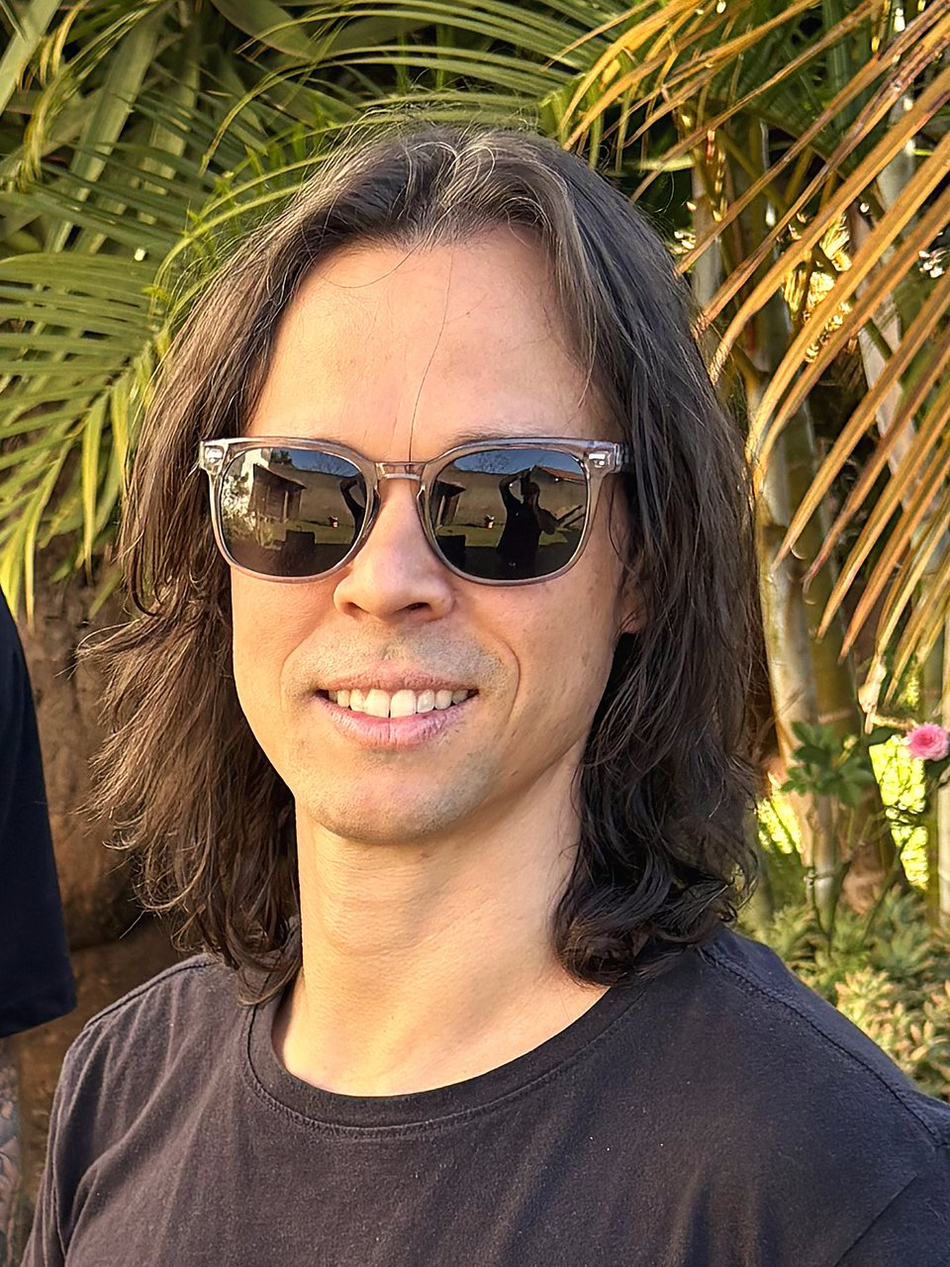
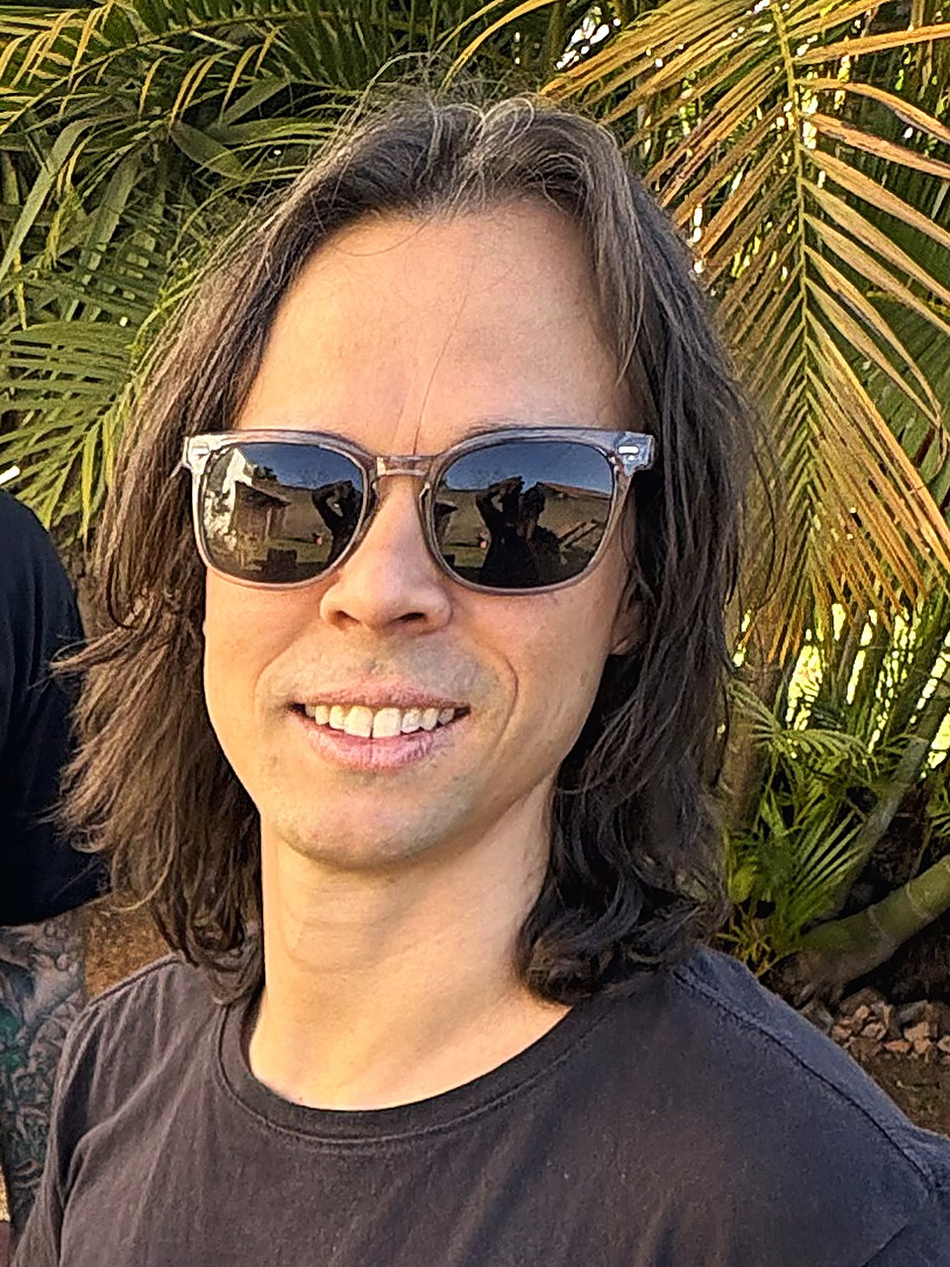
Photo and line-up refinements: drummer credited as Alisson, IMG_1814 after the opening video, portraits re-cut from IMG_1813, Photos section replaced by a riso print of the fence photo, Booking is now 05

diff --git a/index.html b/index.html
@@ -24,8 +24,8 @@
 <link rel="preconnect" href="https://fonts.googleapis.com">
 <link rel="preconnect" href="https://fonts.gstatic.com" crossorigin>
 <link href="https://fonts.googleapis.com/css2?family=Bricolage+Grotesque:opsz,wdth,wght@12..96,75..100,400..800&family=IBM+Plex+Mono:wght@400;500&display=swap" rel="stylesheet">
-<link rel="stylesheet" href="assets/css/site.css?v=7268f69c">
-<script type="application/ld+json">{"@context":"https://schema.org","@type":"MusicGroup","@id":"https://rafaelzeredo.github.io/gigz/#band","name":"GigZ","url":"https://rafaelzeredo.github.io/gigz/","image":"https://rafaelzeredo.github.io/gigz/assets/img/og/og.jpg","logo":"https://rafaelzeredo.github.io/gigz/assets/brand/icon-512.png","foundingDate":"2026","foundingLocation":{"@type":"Place","name":"Brasília, Distrito Federal, Brasil"},"genre":["Rock","Reggae","Blues","Soul"],"description":"Power trio de Brasília formado em 2026: voz e violão, baixo e bateria.","member":[{"@type":"OrganizationRole","roleName":"Voz e violão","member":{"@type":"Person","name":"Rafael Z","url":"https://rafaelzeredo.github.io/","@id":"https://rafaelzeredo.github.io/#rafael-z"}},{"@type":"OrganizationRole","roleName":"Bateria","member":{"@type":"Person","name":"Alisson (Alvinho)"}},{"@type":"OrganizationRole","roleName":"Baixo","member":{"@type":"Person","name":"João Paulo"}}],"contactPoint":{"@type":"ContactPoint","contactType":"booking","telephone":"+55-61-98416-7777","email":"gig.z.contato@gmail.com","areaServed":"BR","availableLanguage":["pt-BR","en"]}}</script>
+<link rel="stylesheet" href="assets/css/site.css?v=0eec98a2">
+<script type="application/ld+json">{"@context":"https://schema.org","@type":"MusicGroup","@id":"https://rafaelzeredo.github.io/gigz/#band","name":"GigZ","url":"https://rafaelzeredo.github.io/gigz/","image":"https://rafaelzeredo.github.io/gigz/assets/img/og/og.jpg","logo":"https://rafaelzeredo.github.io/gigz/assets/brand/icon-512.png","foundingDate":"2026","foundingLocation":{"@type":"Place","name":"Brasília, Distrito Federal, Brasil"},"genre":["Rock","Reggae","Blues","Soul"],"description":"Power trio de Brasília formado em 2026: voz e violão, baixo e bateria.","member":[{"@type":"OrganizationRole","roleName":"Voz e violão","member":{"@type":"Person","name":"Rafael Z","url":"https://rafaelzeredo.github.io/","@id":"https://rafaelzeredo.github.io/#rafael-z"}},{"@type":"OrganizationRole","roleName":"Bateria","member":{"@type":"Person","name":"Alisson"}},{"@type":"OrganizationRole","roleName":"Baixo","member":{"@type":"Person","name":"João Paulo"}}],"contactPoint":{"@type":"ContactPoint","contactType":"booking","telephone":"+55-61-98416-7777","email":"gig.z.contato@gmail.com","areaServed":"BR","availableLanguage":["pt-BR","en"]}}</script>
 </head>
 <body>
 <svg width="0" height="0" style="position:absolute" aria-hidden="true"><defs><symbol id="wm" viewBox="0 -705 1330 848"><g transform="scale(1 -1)" fill="currentColor"><path transform="translate(0 0)" d="M184 -12Q117 -12 81.0 32.5Q45 77 31.0 153.5Q17 230 17 326Q17 400 25.5 463.0Q34 526 56.5 573.0Q79 620 120.0 646.0Q161 672 226 672Q285 672 323.0 651.5Q361 631 380.5 595.0Q400 559 403.5 513.0Q407 467 397 417L252 401Q258 447 256.5 481.5Q255 516 246.0 536.0Q237 556 219 556Q199 556 189.0 530.5Q179 505 175.5 460.5Q172 416 172 357Q172 285 175.5 236.5Q179 188 186.0 159.5Q193 131 203.0 118.5Q213 106 226 106Q242 106 253.0 121.5Q264 137 270.0 165.0Q276 193 278 230H229V337H413V225V0H317L313 191H304Q307 139 299.5 92.5Q292 46 265.5 17.0Q239 -12 184 -12Z"/><path transform="translate(411 0)" d="M20 0V528H174V0ZM97 564Q54 564 30.0 582.0Q6 600 6 634Q6 668 30.0 686.5Q54 705 97 705Q141 705 164.5 686.5Q188 668 188 634Q188 600 164.5 582.0Q141 564 97 564Z"/><path transform="translate(587 0)" d="M175 -143Q117 -143 80.0 -130.5Q43 -118 25.0 -95.0Q7 -72 7 -40Q7 4 37.5 28.0Q68 52 118 56V64Q84 68 56.0 78.0Q28 88 28 117Q28 144 52.5 160.5Q77 177 122 183V192Q70 206 39.5 247.0Q9 288 9 348Q9 400 32.5 440.5Q56 481 100.0 504.5Q144 528 205 528H395V405L265 430V422Q322 409 349.0 382.5Q376 356 376 317Q376 282 356.0 247.5Q336 213 296.0 190.5Q256 168 197 168Q187 168 174.0 168.5Q161 169 151 173Q137 166 129.0 161.0Q121 156 121 151Q121 148 125.0 145.5Q129 143 136.5 142.0Q144 141 154 141H229Q253 141 283.5 139.0Q314 137 342.0 126.0Q370 115 388.5 90.5Q407 66 407 21Q407 -34 377.5 -70.5Q348 -107 296.0 -125.0Q244 -143 175 -143ZM181 -4Q216 -4 234.0 -0.5Q252 3 258.5 9.5Q265 16 265 25Q265 37 258.5 43.0Q252 49 241.5 52.0Q231 55 220.0 55.5Q209 56 201 56H161Q133 45 122.5 37.0Q112 29 112 20Q112 9 123.0 4.0Q134 -1 150.0 -2.5Q166 -4 181 -4ZM194 258Q211 258 219.0 279.0Q227 300 227 339Q227 377 219.5 400.5Q212 424 194 424Q177 424 169.5 401.5Q162 379 162 340Q162 314 165.0 295.5Q168 277 175.5 267.5Q183 258 194 258Z"/><path style="fill:var(--zc,#FF5A1F)" class="z" transform="translate(979 0)" d="M14 0V121L178 532V535H14V660H334V539L169 129V125H337V0Z"/></g></symbol></defs></svg>
@@ -37,7 +37,6 @@
     <a href="#formacao"><span data-pt>Formação</span><span data-en>Line-up</span></a>
     <a href="#ao-vivo"><span data-pt>Ao vivo</span><span data-en>Live</span></a>
     <a href="#videos"><span data-pt>Vídeos</span><span data-en>Videos</span></a>
-    <a href="#fotos"><span data-pt>Fotos</span><span data-en>Photos</span></a>
     <a href="#contratar"><span data-pt>Contratar</span><span data-en>Booking</span></a>
   </nav>
   <div class="tools">
@@ -53,8 +52,7 @@
     <a href="#formacao"><span><span data-pt>Formação</span><span data-en>Line-up</span></span><small>02</small></a>
     <a href="#ao-vivo"><span><span data-pt>Ao vivo</span><span data-en>Live</span></span><small>03</small></a>
     <a href="#videos"><span><span data-pt>Vídeos</span><span data-en>Videos</span></span><small>04</small></a>
-    <a href="#fotos"><span><span data-pt>Fotos</span><span data-en>Photos</span></span><small>05</small></a>
-    <a href="#contratar"><span><span data-pt>Contratar</span><span data-en>Booking</span></span><small>06</small></a>
+    <a href="#contratar"><span><span data-pt>Contratar</span><span data-en>Booking</span></span><small>05</small></a>
   </nav>
   <div class="foot">Power trio · Brasília · 2026</div>
 </div>
@@ -89,7 +87,7 @@
       <p class="rv"><span data-pt>O repertório passeia pelo rock, pelo reggae, pelo blues e pelo soul, de Sublime e Jimi Hendrix a Charlie Brown Jr. e Stevie Wonder.</span><span data-en>The set moves through rock, reggae, blues and soul, from Sublime and Jimi Hendrix to Charlie Brown Jr. and Stevie Wonder.</span></p>
       <div class="name rv"><b><span data-pt>O nome</span><span data-en>The name</span></b><span><span data-pt><i>Gig</i> é a palavra que os músicos usam para show. A GigZ é uma banda feita para eles, com um Z no fim.</span><span data-en>A <i>gig</i> is what musicians call a show. GigZ is a band made for them, with a Z at the end.</span></span></div>
     </div>
-    <figure class="rv"><span class="tape">07.07.2026</span><img src="assets/img/photos/img_1821.jpg" srcset="assets/img/photos/img_1821_s.jpg 900w, assets/img/photos/img_1821.jpg 1800w" sizes="(max-width:899px) 100vw, 46vw" width="1350" height="1800" loading="lazy" alt="GigZ: Rafael Z com o violão, o baterista e o baixista, num jardim, ao fim da tarde"></figure>
+    <figure class="rv"><span class="tape">07.07.2026</span><img src="assets/img/photos/img_1814.jpg" srcset="assets/img/photos/img_1814_s.jpg 900w, assets/img/photos/img_1814.jpg 1800w" sizes="(max-width:899px) 100vw, 46vw" width="1350" height="1800" loading="lazy" alt="GigZ no jardim, ao fim da tarde: Rafael Z com o violão, Alisson junto ao bumbo e João Paulo com o baixo"></figure>
   </div>
 </section>
 
@@ -107,8 +105,8 @@
       <p><span data-pt>Cantor e compositor de Brasília. Carreira solo e outros projetos em</span><span data-en>Singer and songwriter from Brasília. Solo work and other projects at</span> <a href="https://rafaelzeredo.github.io/" target="_blank" rel="noopener">rafaelzeredo.github.io</a>.</p>
     </article>
     <article class="m rv">
-      <div class="ph"><img src="assets/img/members/drums.jpg" width="960" height="1280" loading="lazy" alt="Retrato de Alisson (Alvinho), baterista da GigZ, de óculos escuros e barba"><span class="tape"><span data-pt>Bateria</span><span data-en>Drums</span></span></div>
-      <h3>Alisson <span style="font-weight:400">(Alvinho)</span></h3>
+      <div class="ph"><img src="assets/img/members/drums.jpg" width="960" height="1280" loading="lazy" alt="Retrato de Alisson, baterista da GigZ, de óculos escuros e barba"><span class="tape"><span data-pt>Bateria</span><span data-en>Drums</span></span></div>
+      <h3>Alisson</h3>
       <p><span data-pt>O pulso da banda: bumbo, caixa e pratos que seguram o groove do reggae ao blues.</span><span data-en>The band's pulse: kick, snare and cymbals holding the groove from reggae to blues.</span></p>
     </article>
     <article class="m rv">
@@ -156,20 +154,15 @@
   <div class="vgrid"><button class="vcard feature rv" data-video="assets/video/film_promo.mp4" data-poster="assets/video/film_promo.jpg" data-caption="GigZ · Garden Session 07.2026"><span class="thumb"><img src="assets/video/film_promo.jpg" alt="" loading="lazy"><span class="play"><svg viewBox="0 0 24 24" fill="currentColor" aria-hidden="true"><path d="M7 4.5v15l13-7.5z"/></svg></span><span class="dur">1:06</span></span><span class="meta"><span class="k" style="margin-bottom:14px"><span data-pt>Vídeo principal</span><span data-en>Main video</span></span><h3>Garden Session</h3><p><span data-pt>Um minuto da banda ao vivo: What I Got, Red House, Stand By Me e Ela Vai Voltar.</span><span data-en>One minute of the band live: What I Got, Red House, Stand By Me and Ela Vai Voltar.</span></p></span></button><button class="vcard rv" data-video="assets/video/film_what_i_got.mp4" data-poster="assets/video/film_what_i_got.jpg" data-caption="GigZ · What I Got (Sublime) · Garden Session 07.2026"><span class="thumb"><img src="assets/video/film_what_i_got.jpg" alt="" loading="lazy"><span class="play"><svg viewBox="0 0 24 24" fill="currentColor" aria-hidden="true"><path d="M7 4.5v15l13-7.5z"/></svg></span><span class="dur">2:01</span></span><h3>What I Got</h3><p>Sublime · <span data-pt>ao vivo</span><span data-en>live</span></p></button><button class="vcard rv" data-video="assets/video/film_isnt_she_lovely.mp4" data-poster="assets/video/film_isnt_she_lovely.jpg" data-caption="GigZ · Isn&#x27;t She Lovely (Stevie Wonder) · Garden Session 07.2026"><span class="thumb"><img src="assets/video/film_isnt_she_lovely.jpg" alt="" loading="lazy"><span class="play"><svg viewBox="0 0 24 24" fill="currentColor" aria-hidden="true"><path d="M7 4.5v15l13-7.5z"/></svg></span><span class="dur">0:45</span></span><h3>Isn&#x27;t She Lovely</h3><p>Stevie Wonder · <span data-pt>ao vivo</span><span data-en>live</span></p></button><button class="vcard rv" data-video="assets/video/film_red_house.mp4" data-poster="assets/video/film_red_house.jpg" data-caption="GigZ · Red House (Jimi Hendrix) · Garden Session 07.2026"><span class="thumb"><img src="assets/video/film_red_house.jpg" alt="" loading="lazy"><span class="play"><svg viewBox="0 0 24 24" fill="currentColor" aria-hidden="true"><path d="M7 4.5v15l13-7.5z"/></svg></span><span class="dur">2:25</span></span><h3>Red House</h3><p>Jimi Hendrix · <span data-pt>ao vivo</span><span data-en>live</span></p></button><button class="vcard rv" data-video="assets/video/film_stand_by_me.mp4" data-poster="assets/video/film_stand_by_me.jpg" data-caption="GigZ · Stand By Me (Ben E. King) · Garden Session 07.2026"><span class="thumb"><img src="assets/video/film_stand_by_me.jpg" alt="" loading="lazy"><span class="play"><svg viewBox="0 0 24 24" fill="currentColor" aria-hidden="true"><path d="M7 4.5v15l13-7.5z"/></svg></span><span class="dur">1:56</span></span><h3>Stand By Me</h3><p>Ben E. King · <span data-pt>ao vivo</span><span data-en>live</span></p></button><button class="vcard rv" data-video="assets/video/film_ela_vai_voltar.mp4" data-poster="assets/video/film_ela_vai_voltar.jpg" data-caption="GigZ · Ela Vai Voltar (Charlie Brown Jr.) · Garden Session 07.2026"><span class="thumb"><img src="assets/video/film_ela_vai_voltar.jpg" alt="" loading="lazy"><span class="play"><svg viewBox="0 0 24 24" fill="currentColor" aria-hidden="true"><path d="M7 4.5v15l13-7.5z"/></svg></span><span class="dur">1:24</span></span><h3>Ela Vai Voltar</h3><p>Charlie Brown Jr. · <span data-pt>ao vivo</span><span data-en>live</span></p></button><button class="vcard rv" data-video="assets/video/film_promo_916.mp4" data-poster="assets/video/film_promo_916.jpg" data-caption="GigZ · Garden Session · 9:16 (Reels · Stories) · Garden Session 07.2026"><span class="thumb tall"><img src="assets/video/film_promo_916.jpg" alt="" loading="lazy"><span class="play"><svg viewBox="0 0 24 24" fill="currentColor" aria-hidden="true"><path d="M7 4.5v15l13-7.5z"/></svg></span><span class="dur">1:06</span></span><h3>Garden Session · 9:16</h3><p><span data-pt>Corte vertical para redes sociais</span><span data-en>Vertical cut for social media</span></p></button><button class="vcard rv" data-video="assets/video/film_social_what_i_got_916.mp4" data-poster="assets/video/film_social_what_i_got_916.jpg" data-caption="GigZ · What I Got · 30 s (Reels · Stories) · Garden Session 07.2026"><span class="thumb tall"><img src="assets/video/film_social_what_i_got_916.jpg" alt="" loading="lazy"><span class="play"><svg viewBox="0 0 24 24" fill="currentColor" aria-hidden="true"><path d="M7 4.5v15l13-7.5z"/></svg></span><span class="dur">0:31</span></span><h3>What I Got · 30 s</h3><p><span data-pt>Corte vertical para redes sociais</span><span data-en>Vertical cut for social media</span></p></button></div>
 </section>
 
-<!-- 05 PHOTOS -->
-<section class="sec gallery" id="fotos">
-  <div class="head rv">
-    <div><div class="k"><b>05</b> <span data-pt>Fotos</span><span data-en>Photos</span></div>
-    <h2 class="h2"><span data-pt>Fim de<br><em>tarde.</em></span><span data-en>Late<br><em>afternoon.</em></span></h2></div>
-    <p class="lead"><span data-pt>Sessão de fotos da banda, 7 de julho de 2026. Toque para ampliar.</span><span data-en>Band photo session, 7 July 2026. Tap to enlarge.</span></p>
-  </div>
-  <div class="ggrid"><button class="g1 rv" data-full="assets/img/photos/img_1817.jpg"><img src="assets/img/photos/img_1817_s.jpg" srcset="assets/img/photos/img_1817_s.jpg 900w, assets/img/photos/img_1817.jpg 1800w" sizes="(max-width:899px) 50vw, 40vw" loading="lazy" alt="A GigZ com os instrumentos no jardim: violão, bumbo e baixo"></button><button class="g2 rv" data-full="assets/img/photos/img_1824.jpg"><img src="assets/img/photos/img_1824_s.jpg" srcset="assets/img/photos/img_1824_s.jpg 900w, assets/img/photos/img_1824.jpg 1800w" sizes="(max-width:899px) 50vw, 40vw" loading="lazy" alt="Os três músicos diante de uma cerca de madeira"></button><button class="g3 rv" data-full="assets/img/photos/img_1813.jpg"><img src="assets/img/photos/img_1813_s.jpg" srcset="assets/img/photos/img_1813_s.jpg 900w, assets/img/photos/img_1813.jpg 1800w" sizes="(max-width:899px) 50vw, 40vw" loading="lazy" alt="A banda no jardim, entre palmeiras"></button><button class="g4 rv" data-full="assets/img/photos/img_1822.jpg"><img src="assets/img/photos/img_1822_s.jpg" srcset="assets/img/photos/img_1822_s.jpg 900w, assets/img/photos/img_1822.jpg 1800w" sizes="(max-width:899px) 50vw, 40vw" loading="lazy" alt="A banda com um cachorro, numa calçada"></button><button class="g5 rv" data-full="assets/img/photos/img_1816.jpg"><img src="assets/img/photos/img_1816_s.jpg" srcset="assets/img/photos/img_1816_s.jpg 900w, assets/img/photos/img_1816.jpg 1800w" sizes="(max-width:899px) 50vw, 40vw" loading="lazy" alt="Rafael Z, o baterista e o baixista com os instrumentos"></button><button class="g6 rv" data-full="assets/img/photos/img_1826.jpg"><img src="assets/img/photos/img_1826_s.jpg" srcset="assets/img/photos/img_1826_s.jpg 900w, assets/img/photos/img_1826.jpg 1800w" sizes="(max-width:899px) 50vw, 40vw" loading="lazy" alt="A banda de braços cruzados diante da cerca"></button><button class="g7 rv" data-full="assets/img/photos/img_1814.jpg"><img src="assets/img/photos/img_1814_s.jpg" srcset="assets/img/photos/img_1814_s.jpg 900w, assets/img/photos/img_1814.jpg 1800w" sizes="(max-width:899px) 50vw, 40vw" loading="lazy" alt="Retrato da banda com violão e baixo, ao fim da tarde"></button></div>
+<!-- RISO: the fence photo as a riso print, leading into booking -->
+<section class="riso" aria-label="GigZ">
+  <figure class="rv"><span class="tape">GigZ · 07.07.2026</span><img src="assets/img/photos/gigz_riso.jpg" srcset="assets/img/photos/gigz_riso_s.jpg 1200w, assets/img/photos/gigz_riso.jpg 2400w" sizes="(max-width:899px) 100vw, 86vw" width="2400" height="1818" loading="lazy" alt="Rafael Z, Alisson e João Paulo diante de uma cerca de madeira, em impressão de duas cores, laranja e preto"></figure>
 </section>
 
-<!-- 06 BOOKING -->
+<!-- 05 BOOKING -->
 <section class="sec book" id="contratar">
   <span class="ghost" aria-hidden="true"><svg viewBox="0 0 1330 848"><use href="#wm"/></svg></span>
-  <div class="k rv"><b style="color:var(--ink)">06</b> <span data-pt>Contratar</span><span data-en>Booking</span></div>
+  <div class="k rv"><b style="color:var(--ink)">05</b> <span data-pt>Contratar</span><span data-en>Booking</span></div>
   <h2 class="h2 rv" style="margin-top:22px"><span data-pt>Bora<br>tocar?</span><span data-en>Let's<br>play.</span></h2>
   <div class="row">
     <div class="rv">
@@ -194,12 +187,11 @@
 <footer>
   <div class="wm"><svg viewBox="0 0 1330 848" aria-label="GigZ" role="img"><use href="#wm"/></svg></div>
   <div class="cols">
-    <nav><a href="#banda"><span data-pt>A banda</span><span data-en>The band</span></a><a href="#ao-vivo"><span data-pt>Ao vivo</span><span data-en>Live</span></a><a href="#videos"><span data-pt>Vídeos</span><span data-en>Videos</span></a><a href="#fotos"><span data-pt>Fotos</span><span data-en>Photos</span></a><a href="#contratar"><span data-pt>Contratar</span><span data-en>Booking</span></a></nav>
+    <nav><a href="#banda"><span data-pt>A banda</span><span data-en>The band</span></a><a href="#ao-vivo"><span data-pt>Ao vivo</span><span data-en>Live</span></a><a href="#videos"><span data-pt>Vídeos</span><span data-en>Videos</span></a><a href="#contratar"><span data-pt>Contratar</span><span data-en>Booking</span></a></nav>
     <span>© 2026 GigZ · Brasília · <a href="https://rafaelzeredo.github.io/">Rafael Z</a></span>
   </div>
 </footer>
 
-<dialog class="lb" id="lb" aria-label="Foto ampliada · Enlarged photo"><figure><img alt=""><figcaption></figcaption></figure><button class="lb-nav lb-prev" aria-label="Anterior · Previous">←</button><button class="lb-nav lb-next" aria-label="Próxima · Next">→</button><button class="lb-x" aria-label="Fechar · Close">×</button></dialog>
 <dialog class="lb" id="vlb" aria-label="Vídeo · Video"><figure><video controls playsinline preload="metadata"></video><figcaption></figcaption></figure><button class="lb-x" aria-label="Fechar · Close">×</button></dialog>
 
 <div class="dock" id="dock"><a href="#ao-vivo"><span data-pt>Assistir</span><span data-en>Watch</span></a><a class="hot" data-wa href="https://wa.me/5561984167777" target="_blank" rel="noopener"><span data-pt>Contratar</span><span data-en>Book</span></a></div>

diff --git a/index.src.html b/index.src.html
@@ -37,7 +37,6 @@
     <a href="#formacao"><span data-pt>Formação</span><span data-en>Line-up</span></a>
     <a href="#ao-vivo"><span data-pt>Ao vivo</span><span data-en>Live</span></a>
     <a href="#videos"><span data-pt>Vídeos</span><span data-en>Videos</span></a>
-    <a href="#fotos"><span data-pt>Fotos</span><span data-en>Photos</span></a>
     <a href="#contratar"><span data-pt>Contratar</span><span data-en>Booking</span></a>
   </nav>
   <div class="tools">
@@ -53,8 +52,7 @@
     <a href="#formacao"><span><span data-pt>Formação</span><span data-en>Line-up</span></span><small>02</small></a>
     <a href="#ao-vivo"><span><span data-pt>Ao vivo</span><span data-en>Live</span></span><small>03</small></a>
     <a href="#videos"><span><span data-pt>Vídeos</span><span data-en>Videos</span></span><small>04</small></a>
-    <a href="#fotos"><span><span data-pt>Fotos</span><span data-en>Photos</span></span><small>05</small></a>
-    <a href="#contratar"><span><span data-pt>Contratar</span><span data-en>Booking</span></span><small>06</small></a>
+    <a href="#contratar"><span><span data-pt>Contratar</span><span data-en>Booking</span></span><small>05</small></a>
   </nav>
   <div class="foot">Power trio · Brasília · 2026</div>
 </div>
@@ -89,7 +87,7 @@
       <p class="rv"><span data-pt>O repertório passeia pelo rock, pelo reggae, pelo blues e pelo soul, de Sublime e Jimi Hendrix a Charlie Brown Jr. e Stevie Wonder.</span><span data-en>The set moves through rock, reggae, blues and soul, from Sublime and Jimi Hendrix to Charlie Brown Jr. and Stevie Wonder.</span></p>
       <div class="name rv"><b><span data-pt>O nome</span><span data-en>The name</span></b><span><span data-pt><i>Gig</i> é a palavra que os músicos usam para show. A GigZ é uma banda feita para eles, com um Z no fim.</span><span data-en>A <i>gig</i> is what musicians call a show. GigZ is a band made for them, with a Z at the end.</span></span></div>
     </div>
-    <figure class="rv"><span class="tape">07.07.2026</span><img src="assets/img/photos/img_1821.jpg" srcset="assets/img/photos/img_1821_s.jpg 900w, assets/img/photos/img_1821.jpg 1800w" sizes="(max-width:899px) 100vw, 46vw" width="1350" height="1800" loading="lazy" alt="GigZ: Rafael Z com o violão, o baterista e o baixista, num jardim, ao fim da tarde"></figure>
+    <figure class="rv"><span class="tape">07.07.2026</span><img src="assets/img/photos/img_1814.jpg" srcset="assets/img/photos/img_1814_s.jpg 900w, assets/img/photos/img_1814.jpg 1800w" sizes="(max-width:899px) 100vw, 46vw" width="1350" height="1800" loading="lazy" alt="GigZ no jardim, ao fim da tarde: Rafael Z com o violão, Alisson junto ao bumbo e João Paulo com o baixo"></figure>
   </div>
 </section>
 
@@ -107,8 +105,8 @@
       <p><span data-pt>Cantor e compositor de Brasília. Carreira solo e outros projetos em</span><span data-en>Singer and songwriter from Brasília. Solo work and other projects at</span> <a href="https://rafaelzeredo.github.io/" target="_blank" rel="noopener">rafaelzeredo.github.io</a>.</p>
     </article>
     <article class="m rv">
-      <div class="ph"><img src="assets/img/members/drums.jpg" width="960" height="1280" loading="lazy" alt="Retrato de Alisson (Alvinho), baterista da GigZ, de óculos escuros e barba"><span class="tape"><span data-pt>Bateria</span><span data-en>Drums</span></span></div>
-      <h3>Alisson <span style="font-weight:400">(Alvinho)</span></h3>
+      <div class="ph"><img src="assets/img/members/drums.jpg" width="960" height="1280" loading="lazy" alt="Retrato de Alisson, baterista da GigZ, de óculos escuros e barba"><span class="tape"><span data-pt>Bateria</span><span data-en>Drums</span></span></div>
+      <h3>Alisson</h3>
       <p><span data-pt>O pulso da banda: bumbo, caixa e pratos que seguram o groove do reggae ao blues.</span><span data-en>The band's pulse: kick, snare and cymbals holding the groove from reggae to blues.</span></p>
     </article>
     <article class="m rv">
@@ -152,20 +150,15 @@
   <div class="vgrid">@@VIDEOS@@</div>
 </section>
 
-<!-- 05 PHOTOS -->
-<section class="sec gallery" id="fotos">
-  <div class="head rv">
-    <div><div class="k"><b>05</b> <span data-pt>Fotos</span><span data-en>Photos</span></div>
-    <h2 class="h2"><span data-pt>Fim de<br><em>tarde.</em></span><span data-en>Late<br><em>afternoon.</em></span></h2></div>
-    <p class="lead"><span data-pt>Sessão de fotos da banda, 7 de julho de 2026. Toque para ampliar.</span><span data-en>Band photo session, 7 July 2026. Tap to enlarge.</span></p>
-  </div>
-  <div class="ggrid">@@GALLERY@@</div>
+<!-- RISO: the fence photo as a riso print, leading into booking -->
+<section class="riso" aria-label="GigZ">
+  <figure class="rv"><span class="tape">GigZ · 07.07.2026</span><img src="assets/img/photos/gigz_riso.jpg" srcset="assets/img/photos/gigz_riso_s.jpg 1200w, assets/img/photos/gigz_riso.jpg 2400w" sizes="(max-width:899px) 100vw, 86vw" width="2400" height="1818" loading="lazy" alt="Rafael Z, Alisson e João Paulo diante de uma cerca de madeira, em impressão de duas cores, laranja e preto"></figure>
 </section>
 
-<!-- 06 BOOKING -->
+<!-- 05 BOOKING -->
 <section class="sec book" id="contratar">
   <span class="ghost" aria-hidden="true"><svg viewBox="0 0 1330 848"><use href="#wm"/></svg></span>
-  <div class="k rv"><b style="color:var(--ink)">06</b> <span data-pt>Contratar</span><span data-en>Booking</span></div>
+  <div class="k rv"><b style="color:var(--ink)">05</b> <span data-pt>Contratar</span><span data-en>Booking</span></div>
   <h2 class="h2 rv" style="margin-top:22px"><span data-pt>Bora<br>tocar?</span><span data-en>Let's<br>play.</span></h2>
   <div class="row">
     <div class="rv">
@@ -190,12 +183,11 @@
 <footer>
   <div class="wm"><svg viewBox="0 0 1330 848" aria-label="GigZ" role="img"><use href="#wm"/></svg></div>
   <div class="cols">
-    <nav><a href="#banda"><span data-pt>A banda</span><span data-en>The band</span></a><a href="#ao-vivo"><span data-pt>Ao vivo</span><span data-en>Live</span></a><a href="#videos"><span data-pt>Vídeos</span><span data-en>Videos</span></a><a href="#fotos"><span data-pt>Fotos</span><span data-en>Photos</span></a><a href="#contratar"><span data-pt>Contratar</span><span data-en>Booking</span></a></nav>
+    <nav><a href="#banda"><span data-pt>A banda</span><span data-en>The band</span></a><a href="#ao-vivo"><span data-pt>Ao vivo</span><span data-en>Live</span></a><a href="#videos"><span data-pt>Vídeos</span><span data-en>Videos</span></a><a href="#contratar"><span data-pt>Contratar</span><span data-en>Booking</span></a></nav>
     <span>© 2026 GigZ · Brasília · <a href="https://rafaelzeredo.github.io/">Rafael Z</a></span>
   </div>
 </footer>
 
-<dialog class="lb" id="lb" aria-label="Foto ampliada · Enlarged photo"><figure><img alt=""><figcaption></figcaption></figure><button class="lb-nav lb-prev" aria-label="Anterior · Previous">←</button><button class="lb-nav lb-next" aria-label="Próxima · Next">→</button><button class="lb-x" aria-label="Fechar · Close">×</button></dialog>
 <dialog class="lb" id="vlb" aria-label="Vídeo · Video"><figure><video controls playsinline preload="metadata"></video><figcaption></figcaption></figure><button class="lb-x" aria-label="Fechar · Close">×</button></dialog>
 
 <div class="dock" id="dock"><a href="#ao-vivo"><span data-pt>Assistir</span><span data-en>Watch</span></a><a class="hot" data-wa href="https://wa.me/5561984167777" target="_blank" rel="noopener"><span data-pt>Contratar</span><span data-en>Book</span></a></div>

diff --git a/assets/css/site.css b/assets/css/site.css
@@ -160,16 +160,11 @@ section{position:relative}
 .vcard.feature p{font-size:clamp(17px,1.4vw,20px);max-width:36ch;margin-top:12px;color:var(--paper2)}
 .vcard.feature h3{font-size:clamp(34px,3.6vw,56px);line-height:.95;font-variation-settings:"wdth" 75}
 
-/* gallery */
-.gallery{background:var(--paper);color:var(--ink)}
-.gallery .k{color:#6e665b}
-.gallery .k:before{background:var(--ember)}
-.gallery .lead{color:#3b3631}
-.ggrid{display:grid;grid-template-columns:repeat(12,minmax(0,1fr));gap:clamp(10px,1.2vw,18px)}
-.ggrid button{position:relative;display:block;overflow:hidden;border-radius:3px;background:#cfc6b8;cursor:zoom-in}
-.ggrid img{width:100%;height:100%;object-fit:cover;transition:transform 1.2s cubic-bezier(.2,.8,.2,1)}
-.ggrid button:hover img{transform:scale(1.035)}
-.g1{grid-column:span 7;aspect-ratio:4/5}.g2{grid-column:span 5;aspect-ratio:3/4}.g3{grid-column:span 4;aspect-ratio:3/4}.g4{grid-column:span 4;aspect-ratio:3/4}.g5{grid-column:span 4;aspect-ratio:3/4}.g6{grid-column:span 5;aspect-ratio:3/4}.g7{grid-column:span 7;aspect-ratio:4/5}
+/* riso: the fence photo printed in ember + ink on the page's own paper, pinned with tape, slightly askew */
+.riso{background:var(--paper);color:var(--ink);padding:clamp(70px,9vw,150px) var(--pad);overflow:hidden}
+.riso figure{position:relative;max-width:min(1180px,106vh);margin:0 auto;transform:rotate(-1.2deg)}
+.riso img{width:100%;box-shadow:0 30px 60px -38px rgba(14,13,12,.55)}
+.riso .tape{right:24px;bottom:-14px;--r:-2deg;white-space:nowrap}
 
 /* booking */
 .book{background:var(--ember);color:var(--ink);overflow:hidden}
@@ -236,8 +231,7 @@ dialog.lb figcaption{font-family:var(--mono);font-size:12px;letter-spacing:.12em
   .vgrid{grid-template-columns:1fr 1fr}
   .vcard.feature{grid-column:1/-1;grid-template-columns:1fr}
   .vcard.feature .thumb{max-width:none}
-  .ggrid{grid-template-columns:repeat(2,minmax(0,1fr))}
-  .g1,.g7{grid-column:1/-1;aspect-ratio:4/5}.g2,.g3,.g4,.g5,.g6{grid-column:span 1;aspect-ratio:3/4}
+  .riso figure{transform:rotate(-.8deg)}
   .dock{display:flex}
   .lb-nav{display:none}
 }

diff --git a/build.py b/build.py
@@ -1,4 +1,4 @@
-"""Builds index.html from index.src.html: fills the set list, video cards, gallery, structured data and cache-busting
+"""Builds index.html from index.src.html: fills the set list, video cards, structured data and cache-busting
 versions. Durations are read from the actual web video files. Run: python3 build.py"""
 import json,hashlib,subprocess,os,html
 H=os.path.dirname(os.path.abspath(__file__))
@@ -31,21 +31,16 @@ for slug,t,a,feat in VIDS:
     else:
         sub='<span data-pt>Corte vertical para redes sociais</span><span data-en>Vertical cut for social media</span>' if tall else f'{html.escape(a)} · <span data-pt>ao vivo</span><span data-en>live</span>'
         cards.append(f'<button class="vcard rv" data-video="{v}" data-poster="{p}" data-caption="{html.escape(cap)}">{thumb}<h3>{html.escape(t)}</h3><p>{sub}</p></button>')
-GAL=[('img_1817','g1','A GigZ com os instrumentos no jardim: violão, bumbo e baixo'),('img_1824','g2','Os três músicos diante de uma cerca de madeira'),
-     ('img_1813','g3','A banda no jardim, entre palmeiras'),('img_1822','g4','A banda com um cachorro, numa calçada'),
-     ('img_1816','g5','Rafael Z, o baterista e o baixista com os instrumentos'),('img_1826','g6','A banda de braços cruzados diante da cerca'),
-     ('img_1814','g7','Retrato da banda com violão e baixo, ao fim da tarde')]
-gal=''.join(f'<button class="{g} rv" data-full="assets/img/photos/{n}.jpg"><img src="assets/img/photos/{n}_s.jpg" srcset="assets/img/photos/{n}_s.jpg 900w, assets/img/photos/{n}.jpg 1800w" sizes="(max-width:899px) 50vw, 40vw" loading="lazy" alt="{html.escape(alt)}"></button>' for n,g,alt in GAL)
 LD={"@context":"https://schema.org","@type":"MusicGroup","@id":"https://rafaelzeredo.github.io/gigz/#band","name":"GigZ",
     "url":"https://rafaelzeredo.github.io/gigz/","image":"https://rafaelzeredo.github.io/gigz/assets/img/og/og.jpg",
     "logo":"https://rafaelzeredo.github.io/gigz/assets/brand/icon-512.png","foundingDate":"2026",
     "foundingLocation":{"@type":"Place","name":"Brasília, Distrito Federal, Brasil"},
     "genre":["Rock","Reggae","Blues","Soul"],"description":"Power trio de Brasília formado em 2026: voz e violão, baixo e bateria.",
-    "member":[{"@type":"OrganizationRole","roleName":"Voz e violão","member":{"@type":"Person","name":"Rafael Z","url":"https://rafaelzeredo.github.io/","@id":"https://rafaelzeredo.github.io/#rafael-z"}},{"@type":"OrganizationRole","roleName":"Bateria","member":{"@type":"Person","name":"Alisson (Alvinho)"}},{"@type":"OrganizationRole","roleName":"Baixo","member":{"@type":"Person","name":"João Paulo"}}],
+    "member":[{"@type":"OrganizationRole","roleName":"Voz e violão","member":{"@type":"Person","name":"Rafael Z","url":"https://rafaelzeredo.github.io/","@id":"https://rafaelzeredo.github.io/#rafael-z"}},{"@type":"OrganizationRole","roleName":"Bateria","member":{"@type":"Person","name":"Alisson"}},{"@type":"OrganizationRole","roleName":"Baixo","member":{"@type":"Person","name":"João Paulo"}}],
     "contactPoint":{"@type":"ContactPoint","contactType":"booking","telephone":"+55-61-98416-7777","email":"gig.z.contato@gmail.com","areaServed":"BR","availableLanguage":["pt-BR","en"]}}
 src=open(os.path.join(H,'index.src.html')).read()
 wm=open(os.path.join(os.path.dirname(H),'work','wm_inner.txt')).read().replace('<path class="z"','<path style="fill:var(--zc,#FF5A1F)" class="z"')
-out=(src.replace('@@SETLIST@@','\n        '.join(rows)).replace('@@VIDEOS@@',''.join(cards)).replace('@@GALLERY@@',gal)
+out=(src.replace('@@SETLIST@@','\n        '.join(rows)).replace('@@VIDEOS@@',''.join(cards))
      .replace('@@JSONLD@@',json.dumps(LD,ensure_ascii=False,separators=(',',':'))).replace('@@WM@@',wm)
      .replace('@@CSSV@@',ver('assets/css/site.css')).replace('@@JSV@@',ver('assets/js/site.js')))
 assert '@@' not in out

diff --git a/README.md b/README.md
@@ -7,7 +7,7 @@ A static site with no build step for visitors. GitHub Pages serves this folder f
 - **`index.html`** is generated by `build.py` from `index.src.html`. The script fills in the set list, video cards, gallery and structured data from the real media files. To change the page, edit `index.src.html` and run `python3 build.py`.
 - **`assets/css/site.css`** and **`assets/js/site.js`**: styles and behaviour (no frameworks).
 - **`assets/brand/`**: the GigZ wordmark (SVG paths, Bricolage Grotesque condensed ExtraBold, with an ember Z) and the icons.
-- **`assets/img/`**: graded photos from the band photo session of 7 July 2026, the musician crops and the share image.
+- **`assets/img/`**: from the band photo session of 7 July 2026: the story photo (IMG_1814), the three musician portraits (all cut from IMG_1813), the fence photo as a two-colour riso print (IMG_1824, made by `work/scripts/photos_v3.py`) and the share image.
 - **`assets/video/`**: web versions of the Garden Session films (22 July 2026), the hero loops and the posters. "Isn't She Lovely" is a 45 s excerpt (it ends at 0:45 by choice: the rest of the take has mistakes).
 
 Media production files live outside this repository, in `~/Desktop/ClaudeWorkspace/GigZ/`:
